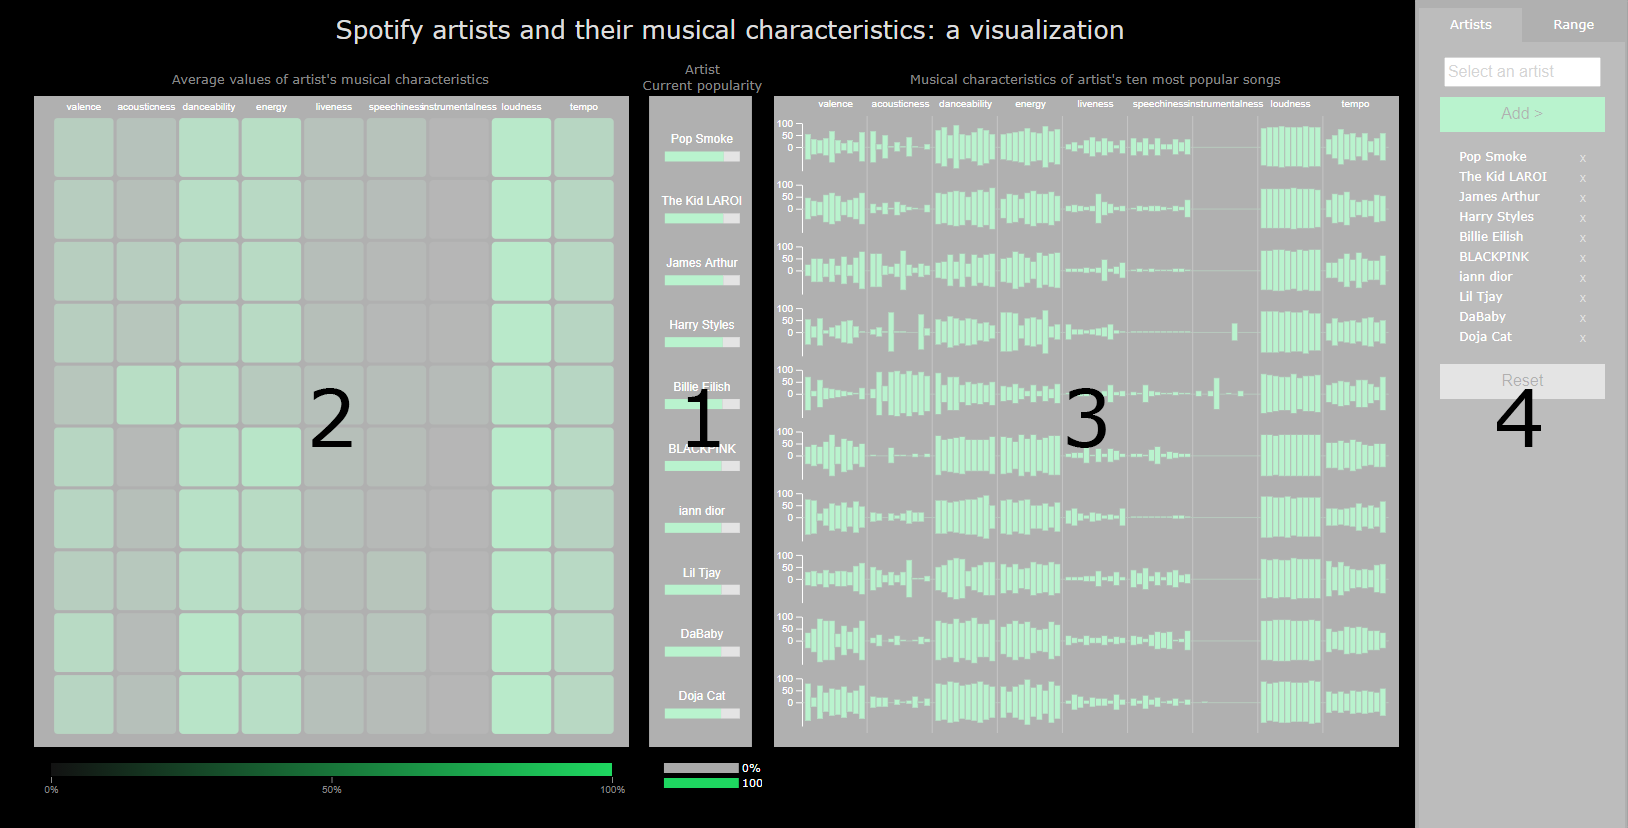
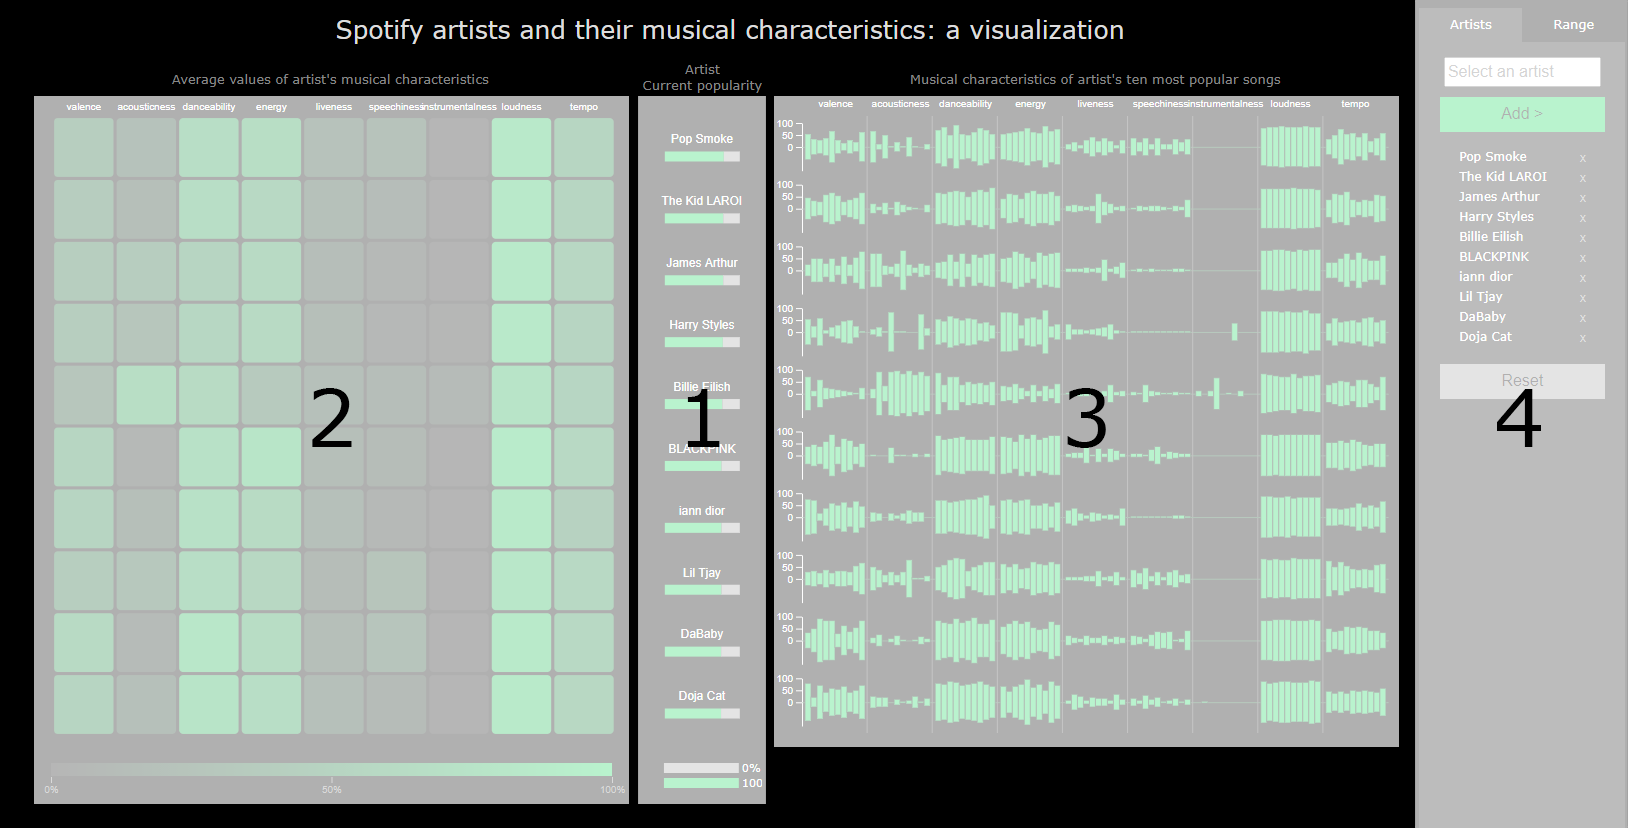
Kleine fixes

Changed region(s): [[0.0, 0.1208, 0.4914, 0.9964]]

diff --git a/app/static/js/heatmap.js b/app/static/js/heatmap.js
@@ -185,8 +185,8 @@ function createHeatMapPlot() {
               .attr("y", "7.5")
               .attr("dy", "0.1em")
               .attr("fill", "CurrentColor")
-              .style("font-size", "70%")
-              .html("0%");
+              .style("font-size", "60%")
+              .html("0");
 
     legend_pop = chart_group_pop_legend.append("g")
     legend_pop.append("rect")
@@ -201,7 +201,7 @@ function createHeatMapPlot() {
             .attr("y", "22.5")
             .attr("dy", "0.1em")
             .attr("fill", "CurrentColor")
-            .style("font-size", "70%")
-            .html("100%");
+            .style("font-size", "60%")
+            .html("100");
 
 }

diff --git a/app/static/css/home.css b/app/static/css/home.css
@@ -55,6 +55,7 @@ body{
     width:100vw;
     font-color:white;
     font-weight:bold;
+    border-bottom: 3px solid #000;
 }
 
 .navbar-default .navbar-nav > li > a {
